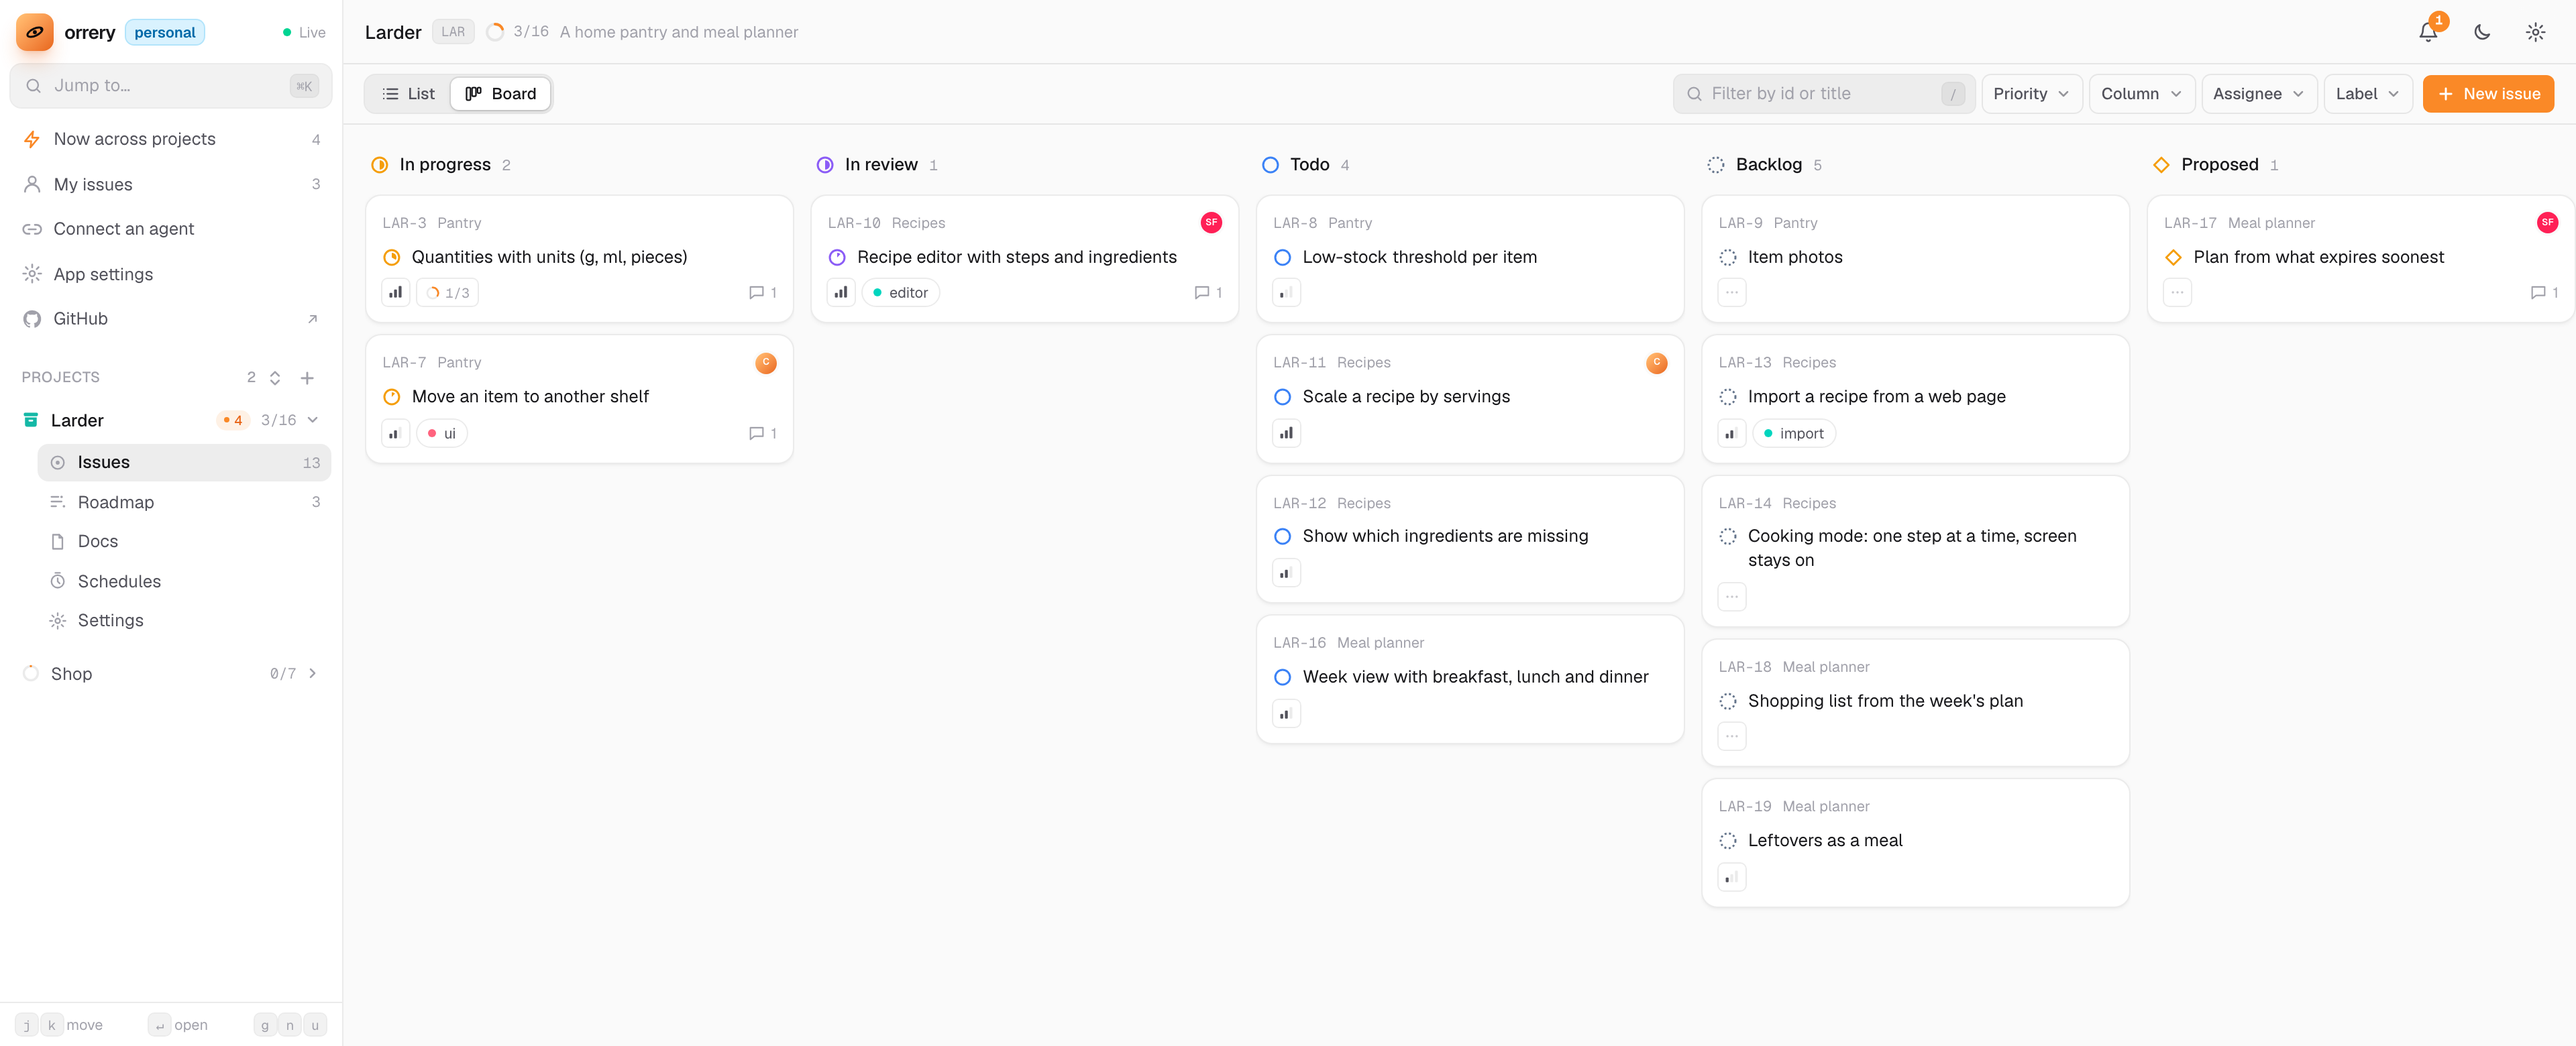
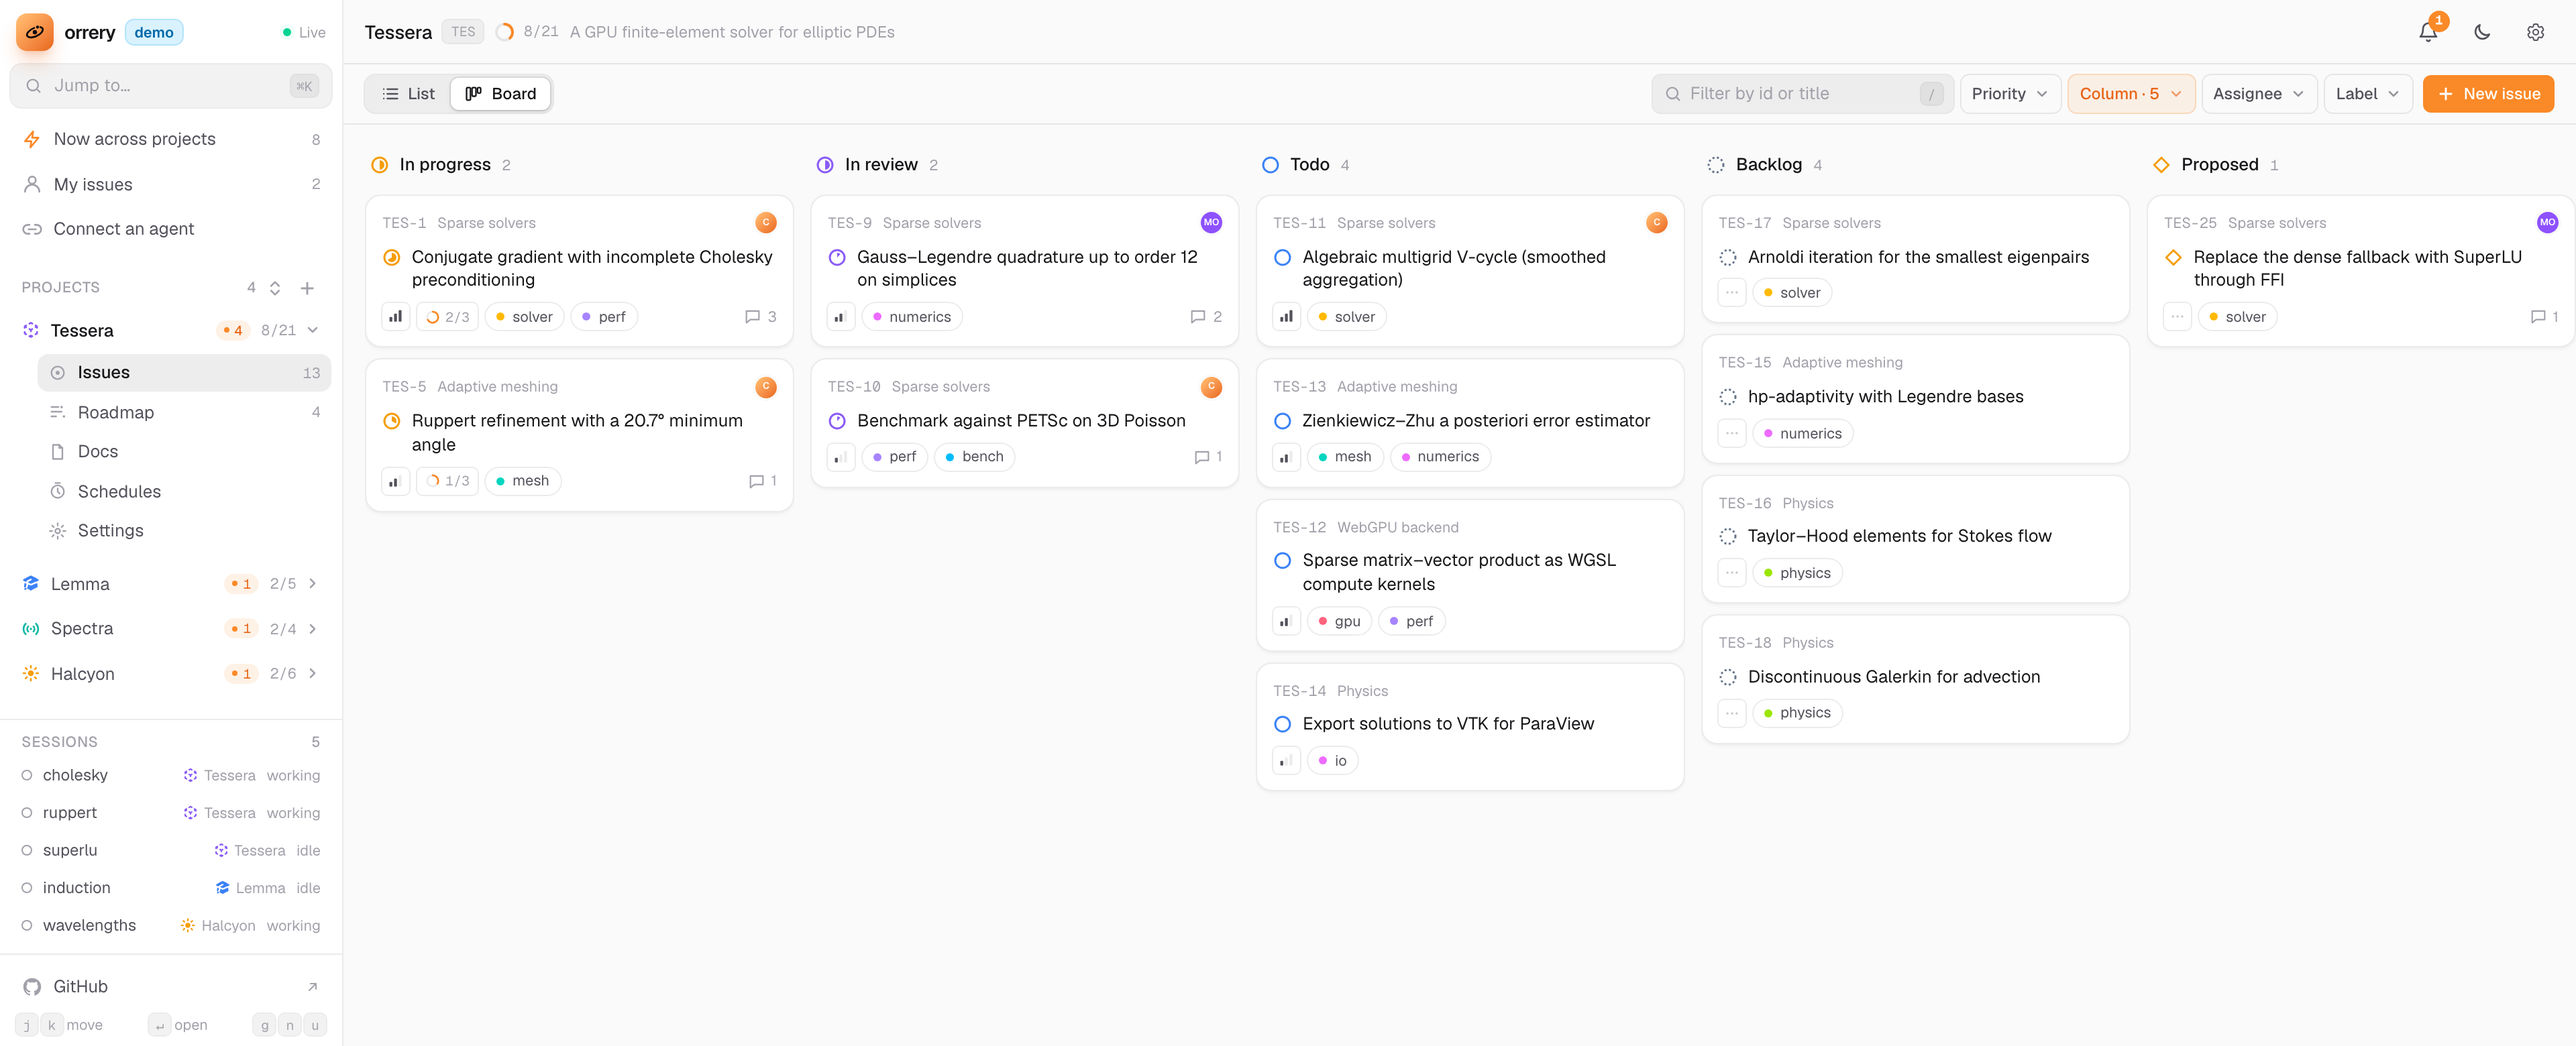
docs(orrery): regenerate the readme board image from demo data
A light-theme shot of a demo Orrery with a fake maths project, the new
logo and the sidebar's sessions; the dark variant goes.

diff --git a/README.md b/README.md
@@ -8,10 +8,7 @@ every project one board. Your sessions read their work from it and write their p
 take an issue, move it to In progress, comment as they go and mark it Done. You watch the board change
 live, answer their questions in one place, and point them at what matters next.
 
-<picture>
-  <source media="(prefers-color-scheme: dark)" srcset="docs/images/board-dark.png">
-  <img alt="A project's board in Orrery: issues in In progress, In review, Todo, Backlog and Proposed columns, with sub-issue progress, labels, assignees and comment counts" src="docs/images/board-light.png">
-</picture>
+<img alt="A project's board in Orrery: issues in In progress, In review, Todo, Backlog and Proposed columns, with sub-issue progress, labels, assignees and comment counts, and the Claude sessions working on them in the sidebar" src="docs/images/board-light.png">
 
 ## What it does
 
